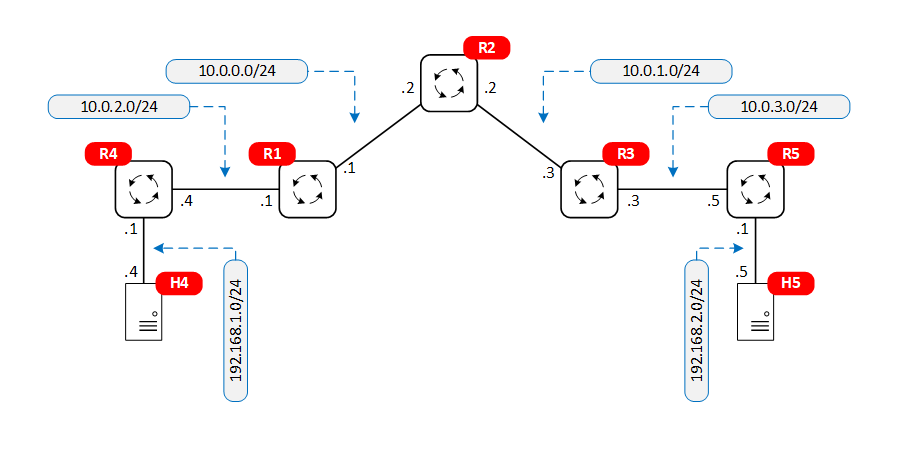
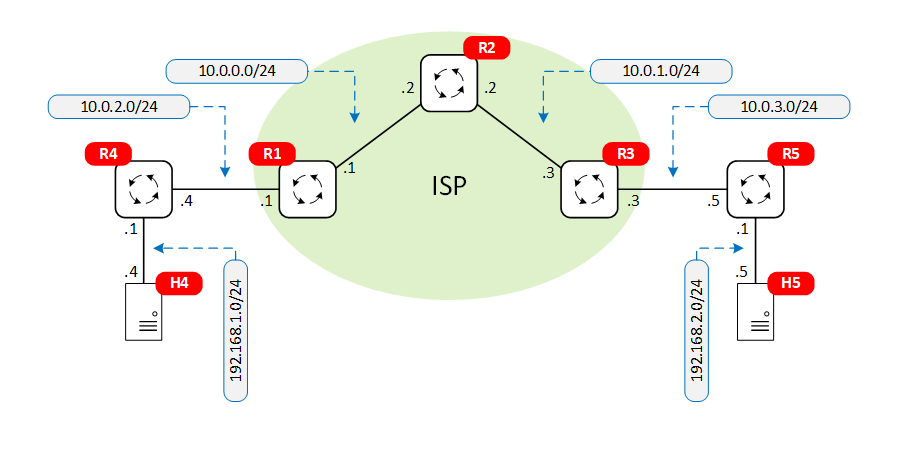
add lab3

Changed region(s): [[0.2806, 0.0624, 0.7171, 0.686]]

diff --git a/README.md b/README.md
@@ -1,6 +1,6 @@
 # MPLS networks implementation using FRRouting
 
-This repository includes two MPLS implementations using [FRR](https://frrouting.org/) routers. The first lab sets the MPLS labels manually in three-router topology. In the second lab, the labels are distributed using LDP (Label Distribution Protocol) in three-router ISP network connecting two customer routers.
+This repository includes three MPLS implementations using [FRR](https://frrouting.org/) routers. The first lab sets the MPLS labels manually in three-router topology. In the second lab, the labels are distributed using LDP (Label Distribution Protocol) in three-router ISP network connecting two customer routers. The third lab uses Virtual Routing and Forwarding (VRF) and BGP to create L3 VPN tunnels across an ISP network.
 
 
 ## Requirements
@@ -47,7 +47,7 @@ mpls_iptunnel
 EOF
 ```
 
-Note also that MPLS needs to be enabled on each router. Therefore, lines similar to following are added to configuration of each router. 
+Note also that MPLS needs to be enabled on each router. Therefore, lines similar to following are added to configuration of each router.
 
 ```
 sysctl -w net.mpls.conf.lo.input=1
@@ -187,3 +187,24 @@ sudo clab destroy --topo mpls-frr-ldp.clab.yml
     User Datagram Protocol, Src Port: 646, Dst Port: 646
     Label Distribution Protocol
     ```
+
+## Lab3 - VRF
+
+This lab demonstrates how an ISP can connect two customers with an overlapping IP address space using VRFs.
+<documentation to be completed>
+
+
+![Topology 3 - VRF](img/mpls_vrf.png)
+
+Use the following command to start the lab:
+
+```
+cd mpls_frr_vrf
+sudo clab deploy --topo mpls-frr-vrf.clab.yml
+```
+
+To end the lab:
+
+```
+sudo clab destroy --topo mpls-frr-vrf.clab.yml
+```
